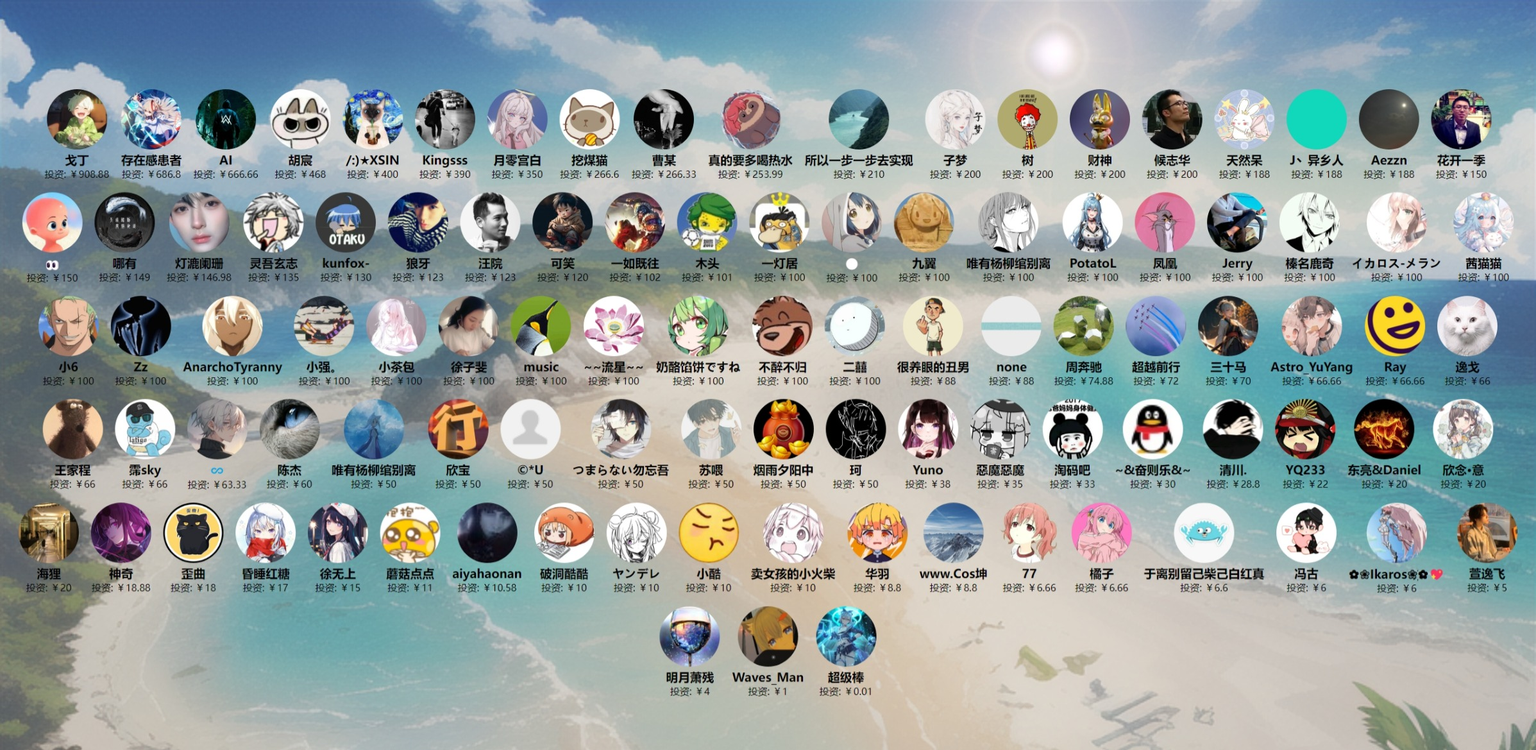
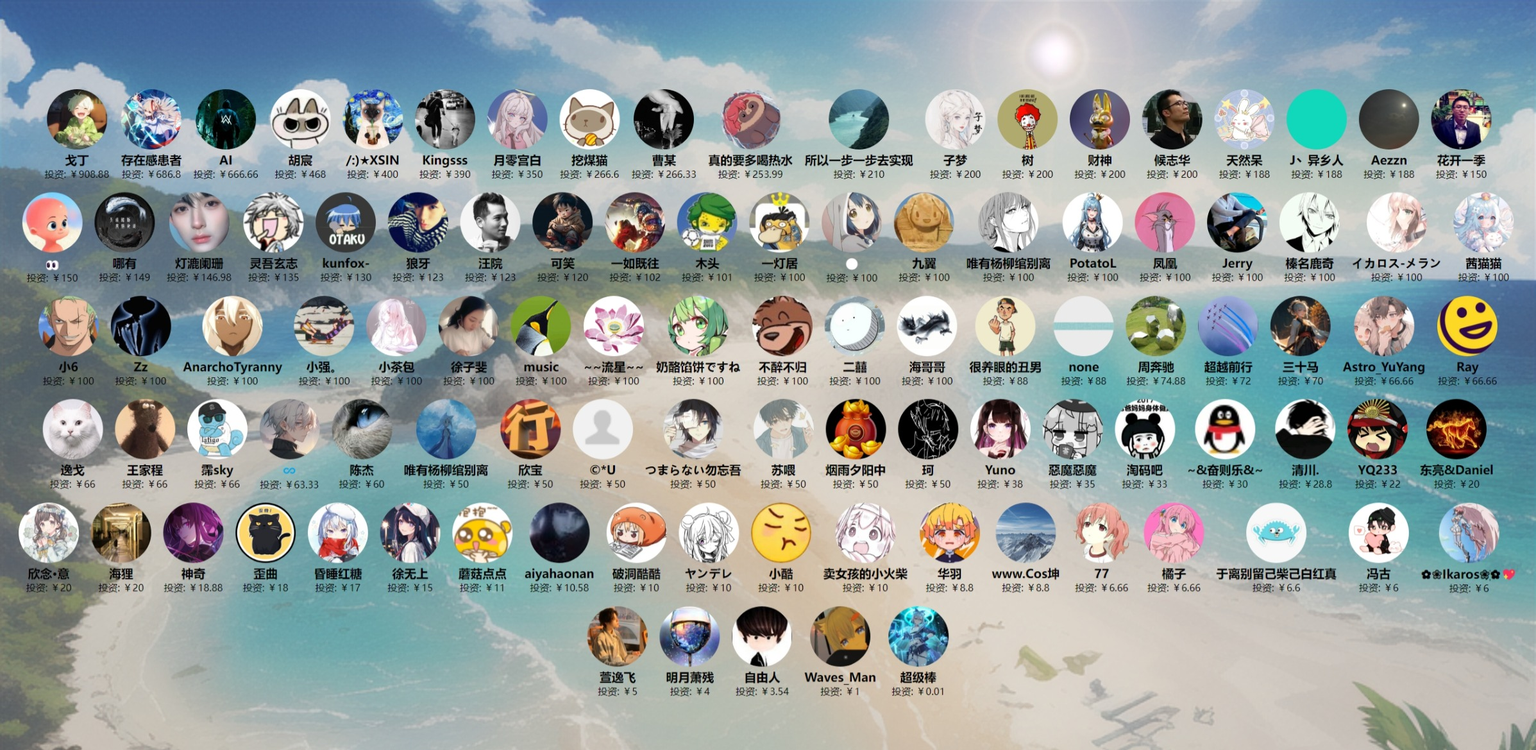
新增 快手2 方案，配合油猴脚本使用，暂时仅支持弹幕信息

Changed region(s): [[0.0, 0.3695, 0.9887, 0.9239]]

diff --git a/docs/投资人/index.html b/docs/投资人/index.html
@@ -302,6 +302,11 @@
             amount: "￥100"
         },
         {
+            name: "海哥哥",
+            avatar: "https://images.cnblogs.com/cnblogs_com/ikaros-521/2328032/o_240327133453_%E5%BE%AE%E4%BF%A1%E5%9B%BE%E7%89%87_20240327213240.jpg",
+            amount: "￥100"
+        },
+        {
             name: "很养眼的丑男",
             avatar: "https://images.cnblogs.com/cnblogs_com/ikaros-521/2328032/o_230722162732_QQ%E5%9B%BE%E7%89%8720230723000544.jpg",
             amount: "￥88"
@@ -535,6 +540,11 @@
             name: "明月萧残",
             avatar: "https://images.cnblogs.com/cnblogs_com/ikaros-521/2328032/o_231126161028_QQ%E5%9B%BE%E7%89%8720231127001005.jpg",
             amount: "￥4"
+        },
+        {
+            name: "自由人",
+            avatar: "https://images.cnblogs.com/cnblogs_com/ikaros-521/2328032/o_240327013613_QQ%E5%9B%BE%E7%89%8720240327090532.jpg",
+            amount: "￥3.54"
         },
         {
             name: "Waves_Man",

diff --git a/main.py b/main.py
@@ -1766,8 +1766,60 @@ def start_server():
 
         # 等待子线程结束
         schedule_thread.join()
+    elif platform == "ks2":
+        import websockets
+
+        async def on_message(websocket, path):
+            global last_liveroom_data, last_username_list
+            global global_idle_time
+
+            async for message in websocket:
+                # print(f"收到消息: {message}")
+                # await websocket.send("服务器收到了你的消息: " + message)
+
+                try:
+                    data_json = json.loads(message)
+                    # logging.debug(data_json)
+                    if data_json["type"] == "comment":
+                        # logging.info(data_json)
+                        # 闲时计数清零
+                        global_idle_time = 0
+
+                        username = data_json["username"]
+                        content = data_json["content"]
+                        
+                        logging.info(f'[📧直播间弹幕消息] [{username}]：{content}')
+
+                        data = {
+                            "platform": platform,
+                            "username": username,
+                            "content": content
+                        }
+                        
+                        my_handle.process_data(data, "comment")
+
+                        # 添加用户名到最新的用户名列表
+                        add_username_to_last_username_list(username)
+
+                except Exception as e:
+                    logging.error(traceback.format_exc())
+                    logging.error("数据解析错误！")
+                    my_handle.abnormal_alarm_handle("platform")
+                    continue
+            
+
+        async def ws_server():
+            ws_url = "127.0.0.1"
+            ws_port = 5000
+            server = await websockets.serve(on_message, ws_url, ws_port)
+            logging.info(f"WebSocket 服务器已在 {ws_url}:{ws_port} 启动")
+            await server.wait_closed()
+
+
+        asyncio.run(ws_server())
+    
     elif platform == "ks":
-        from playwright.sync_api import sync_playwright
+        from playwright.sync_api import sync_playwright, TimeoutError
         from google.protobuf.json_format import MessageToDict
         from configparser import ConfigParser
         import kuaishou_pb2
@@ -1828,9 +1880,12 @@ def start_server():
                 with semaphore:
                     thread_name = threading.current_thread().name.split("-")[0]
                     with sync_playwright() as p:
-                        self.browser = p.firefox.launch(headless=False)
+                        self.browser = p.chromium.launch(headless=False)
+                        # self.browser = p.firefox.launch(headless=False)
                         # executable_path=self.path + self.chrome_path
                         cookie_list = self.find_file("cookie", "json")
+
+                        live_url = self.uri + lid
                     
                         if not os.path.exists(cookie_path):
                             self.context = self.browser.new_context(storage_state=None, user_agent=self.ua)
@@ -1839,8 +1894,11 @@ def start_server():
                         self.page = self.context.new_page()
                         self.page.add_init_script("Object.defineProperties(navigator, {webdriver:{get:()=>undefined}});")
                         self.page.goto("https://live.kuaishou.com/")
+                        # self.page.goto(live_url)
                         element = self.page.get_attribute('.no-login', "style")
+
                         if not element:
+                            logging.info("未登录，请先登录~")
                             self.page.locator('.login').click()
                             self.page.locator('li.tab-panel:nth-child(2) > h4:nth-child(1)').click()
                             self.page.locator(
@@ -1866,15 +1924,41 @@ def start_server():
 
                             except Exception as e:
                                 logging.info("当前%s，[%s]正在直播" % (thread_name, lid))
-                                self.page.goto(self.uri + lid)
+                                
+                                logging.info(f"跳转直播间：{live_url}")
+                                # self.page.goto(live_url)
+                                # time.sleep(1)
+
+                                self.page.goto(live_url)
+
+                                # 等待一段时间检查是否有验证码弹窗
+                                try:
+                                    captcha_selector = "html body div.container"  # 假设这是验证码弹窗的选择器
+                                    self.page.wait_for_selector(captcha_selector, timeout=5000)  # 等待5秒看是否出现验证码
+                                    logging.info("检测到验证码，处理验证码...")
+                                    # 等待验证码弹窗从DOM中被完全移除
+                                    self.page.wait_for_selector(captcha_selector, state='detached', timeout=10000)  # 假设最长等待10秒验证码验证完成
+                                    logging.info("验证码已验证，弹窗已移除")
+                                    # 弹窗处理逻辑之后等待1秒
+                                    time.sleep(1)
+                                    # 处理完验证码后，可能需要再次跳转页面
+                                    # self.page.goto(live_url)
+                                except TimeoutError:
+                                    logging.error("没有检测到验证码，继续执行...")
+                                    
+                                logging.info(f"请在10s内手动打开直播间：{live_url}")
+
+                                time.sleep(10)
+
                                 self.page.on("websocket", self.web_sockets)
+                                logging.info(f"24h监听直播间等待下播...")
                                 self.page.wait_for_selector(selector, timeout=86400000)
                                 logging.error("当前%s，[%s]的直播结束了" % (thread_name, lid))
                                 self.context.close()
                                 self.browser.close()
 
-                        except Exception:
-                            logging.info("登录失败")
+                        except Exception as e:
+                            logging.error(traceback.format_exc())
                             self.context.close()
                             self.browser.close()
 
@@ -1883,6 +1967,7 @@ def start_server():
                 urls = web_socket.url
                 logging.info(urls)
                 if '/websocket' in urls:
+                    logging.info("websocket连接成功，创建监听事件")
                     web_socket.on("close", self.websocket_close)
                     web_socket.on("framereceived", self.handler)
 

diff --git a/webui.py b/webui.py
@@ -2306,6 +2306,7 @@ def goto_func_page():
                         'bilibili2': '哔哩哔哩2', 
                         'dy': '抖音', 
                         'ks': '快手',
+                        'ks2': '快手2',
                         'wxlive': '微信视频号',
                         'douyu': '斗鱼', 
                         'youtube': 'YouTube', 
